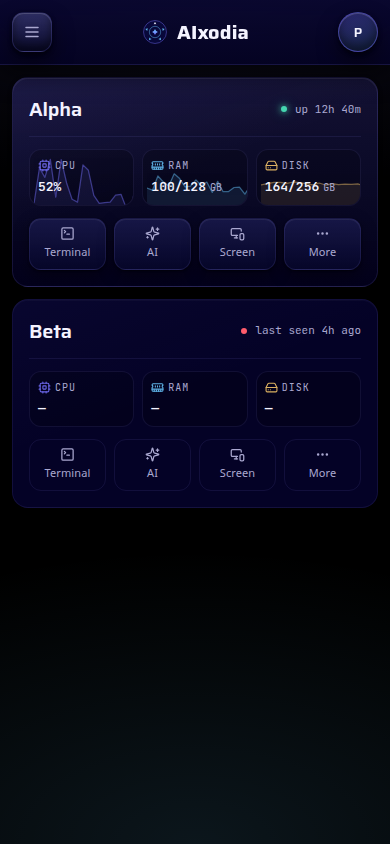
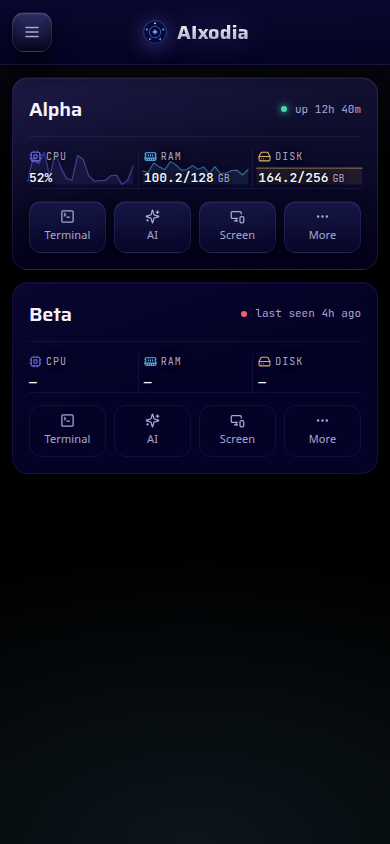
Read the card in three bands and give the centred brand depth
Add hairlines under the card header and above the actions, each centred in a 12px
gap, so the card reads who / what it reports / what you can do on top of the
vertical rules between readings.

Drop the top-right account circle: the account already ends the drawer, so the bar
is now one control and a centred brand. Give that brand depth with shadows on the
mark and the name; a clipped gradient was tried first and rejected because a
transparent colour makes the contrast audit read 1.

diff --git a/src/mock/mock.css b/src/mock/mock.css
@@ -229,8 +229,7 @@ button:disabled { cursor: not-allowed; }
   box-shadow: 0 10px 24px rgba(0, 0, 0, 0.5);
 }
 
-.icon-button,
-.avatar {
+.icon-button {
   display: grid;
   place-items: center;
   width: 40px;
@@ -259,8 +258,7 @@ button:disabled { cursor: not-allowed; }
   .icon-button:hover { border-color: var(--border-strong); color: var(--text); }
 }
 
-.icon-button:active,
-.avatar:active {
+.icon-button:active {
   transform: scale(0.94);
   border-color: rgba(119, 114, 255, 0.5);
   background:
@@ -268,16 +266,6 @@ button:disabled { cursor: not-allowed; }
     rgba(119, 114, 255, 0.4);
   color: var(--text);
   box-shadow: inset 0 0 0 1px rgba(119, 114, 255, 0.28), 0 0 16px rgba(119, 114, 255, 0.25);
-}
-
-.avatar {
-  border-radius: 50%;
-  border-color: rgba(119, 114, 255, 0.4);
-  background: linear-gradient(160deg, rgba(119, 114, 255, 0.32), rgba(105, 200, 255, 0.18));
-  color: var(--text);
-  font-family: var(--brand);
-  font-weight: 600;
-  line-height: 40px;
 }
 
 .brand {
@@ -292,6 +280,14 @@ button:disabled { cursor: not-allowed; }
   font-weight: 700;
   font-size: var(--fs-display);
   letter-spacing: 0.01em;
+  /* Lit from above with the page glow behind it: a hard dark edge under the
+     letters lifts them off the bar and the accent halo ties them to the mark.
+     Solid colour rather than clipped gradient, so a contrast check can read it. */
+  color: var(--text);
+  text-shadow:
+    0 1px 0 rgba(0, 0, 0, 0.7),
+    0 2px 6px rgba(0, 0, 0, 0.55),
+    0 0 18px rgba(119, 114, 255, 0.4);
 }
 
 /* The mark is an SVG asset, so one file serves both the bar and the tab icon. */
@@ -300,6 +296,8 @@ button:disabled { cursor: not-allowed; }
   height: 28px;
   flex: 0 0 auto;
   display: block;
+  filter: drop-shadow(0 1px 0 rgba(0, 0, 0, 0.5))
+    drop-shadow(0 3px 10px rgba(119, 114, 255, 0.45));
 }
 
 /* --------------------------------------------------------------- screen */
@@ -343,6 +341,10 @@ button:disabled { cursor: not-allowed; }
   align-items: center;
   justify-content: space-between;
   gap: var(--s3);
+  /* The card is read in three bands — who, what it reports, what you can do — and
+     a hairline closes each one. */
+  padding-bottom: var(--s3);
+  border-bottom: 1px solid var(--hairline);
 }
 
 .card-head h2 {
@@ -506,9 +508,11 @@ button:disabled { cursor: not-allowed; }
   display: grid;
   grid-template-columns: repeat(4, minmax(0, 1fr));
   gap: var(--s2);
-  /* Separation between blocks is a margin everywhere in the card; padding is only
-     ever an inset, so the two never stack. */
+  /* Equal air on both sides of the rule, so the hairline sits in the middle of
+     the gap rather than against the readings. */
   margin-top: var(--s3);
+  padding-top: var(--s3);
+  border-top: 1px solid var(--hairline);
 }
 
 /* Four peers: none of them is this screen's purpose, so none of them is filled. */
@@ -563,11 +567,10 @@ button:disabled { cursor: not-allowed; }
 }
 
 @media (prefers-reduced-motion: reduce) {
-  .action, .icon-button, .avatar { transition: none; }
+  .action, .icon-button { transition: none; }
   .drawer, .scrim, .drawer-item, .drawer-close { transition: none; }
   .action:active:not(:disabled),
-  .icon-button:active,
-  .avatar:active { transform: none; }
+  .icon-button:active { transform: none; }
 }
 
 @media (min-width: 520px) {

diff --git a/src/mock/EnginesMock.tsx b/src/mock/EnginesMock.tsx
@@ -302,9 +302,6 @@ export function EnginesMock() {
           <img className="brand-mark" src="/brand/aixodia-mark.svg" alt="" width={28} height={28} />
           <span className="brand-name">AIxodia</span>
         </div>
-        <button type="button" className="avatar" aria-label={`Account: ${ACCOUNT}`}>
-          {ACCOUNT[0]}
-        </button>
       </header>
 
       <Drawer open={menuOpen} onClose={() => setMenuOpen(false)} />

diff --git a/docs/ux-visual/verification/mock.md b/docs/ux-visual/verification/mock.md
@@ -649,3 +649,28 @@ so nothing is clipped and nothing leaves the card. `pageScrollY 0` and
 
 The 6px chart bleed still shows as the one intended spill in the geometry audit;
 everything else is clean at 320, 360, 390, 430 and 1440.
+
+## Round 34 — three bands, and a brand with depth
+
+**Horizontal rules.** The card is read as who / what it reports / what you can do,
+so each band is closed by a `1px --hairline`: `.card-head` gets
+`padding-bottom: 12px` plus `border-bottom`, `.actions` gets `margin-top: 12px`,
+`border-top` and `padding-top: 12px`. Measured at 390: header rule `y137`, metrics
+`149–188`, actions rule `y200`, so both gaps are `12` and the rules sit centred in
+their gaps. The first attempt had no margin above the actions rule and the vision
+pass called it out as hugging the values.
+
+**Top-right name removed.** The account circle is gone from the bar — the account
+already lives at the bottom of the drawer — together with its `.avatar` rules and
+every reference in the reduced-motion block. The bar is now one control and a
+centred brand (`brandCenter 195` on a 390 screen).
+
+**Depth on the centred brand.** The mark carries
+`drop-shadow(0 1px 0 rgba(0,0,0,.5))` and a lavender halo; the name carries a
+three-layer `text-shadow` (hard dark edge, soft shadow, accent halo). A gradient
+`background-clip: text` was written first and rejected: `color: transparent` makes
+the contrast audit read a ratio of 1, and the value is not actually the painted
+one. Solid `--text` with shadows keeps the check honest.
+
+Audits at 320, 360, 390, 430 and 1440: 0 low contrast, no wrapped controls, no
+uneven rows, `pageScrollY 0`; the only spill remains the intended 6px chart bleed.
